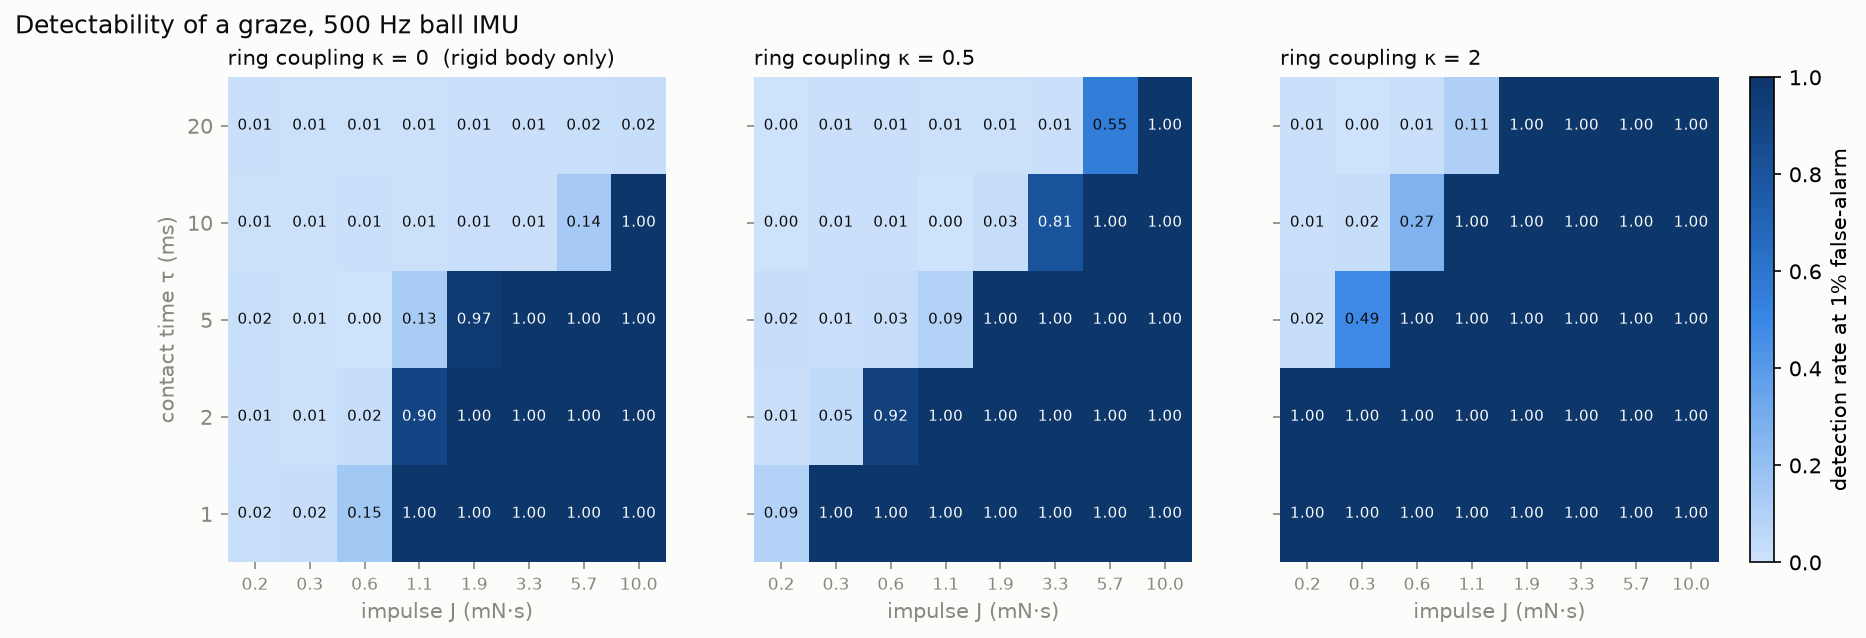
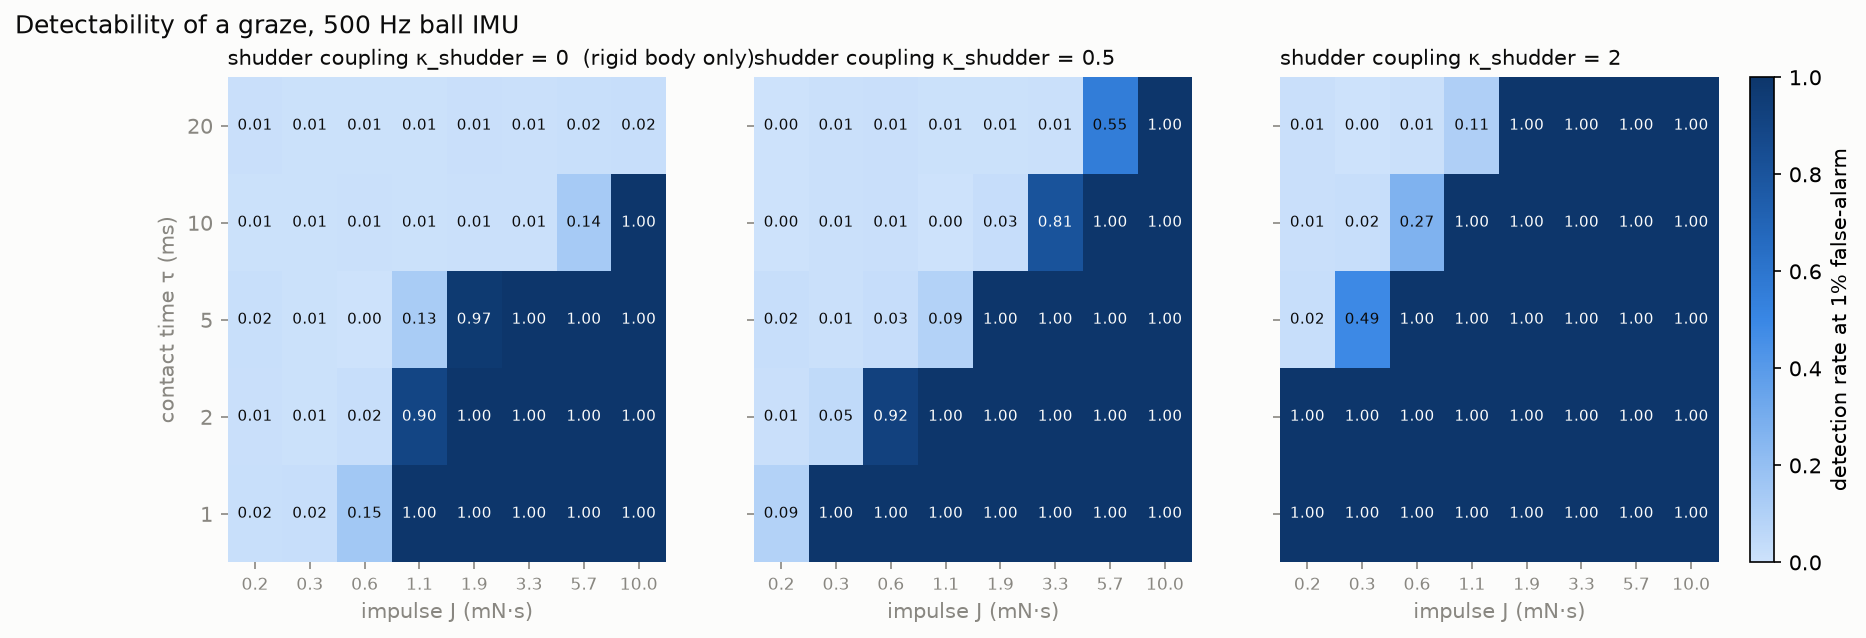
Rename couplings to kappa_shudder/kappa_twist; figures say shudder
Matches post 1's unified subscripted-kappa taxonomy. Terminology note
added to prediction log; figures regenerated.

Claude-Session: https://claude.ai/code/session_01JinYQagh942U1i2GTMJHNi

Changed region(s): [[0.1243, 0.0596, 0.5906, 0.1191], [0.6838, 0.0596, 0.8703, 0.1191]]

diff --git a/sim/touch_detection.py b/sim/touch_detection.py
@@ -6,8 +6,8 @@ Model: one accelerometer axis of a sensor suspended at the center of a ball in
 flight, sampled internally at 10 kHz, anti-alias filtered and decimated to the
 500 Hz the real KINEXON sensor reports. A touch adds (a) a rigid-body half-sine
 deceleration pulse with impulse J over contact time tau, and (b) a damped
-shell-vibration "ring" whose amplitude scales with peak contact force via an
-unknown coupling kappa — the honest big unknown, so we sweep it.
+shell-vibration "shudder" whose amplitude scales with peak contact force via an
+unknown coupling kappa_shudder — the honest big unknown, so we sweep it.
 
 Detector: high-pass at 100 Hz (above the aero-noise band), threshold on peak
 magnitude. Monte Carlo -> ROC and a detectability map over (J, tau).
@@ -40,7 +40,7 @@ A_SPIN = 0.7         # spin-wobble amplitude at f_spin
 F_SPIN = 8.0
 SIG_SENSOR = 0.02    # MEMS noise, ~125 ug/sqrt(Hz) over 250 Hz bandwidth
 
-# shell ring
+# shell shudder (the "ring" in early notes)
 F_RING = 180.0       # Hz, first shell mode reaching the sensor (below Nyquist)
 TAU_RING = 0.03      # s, decay time
 
@@ -74,7 +74,7 @@ def make_noise(n):
     return aero + spin + sensor
 
 
-def touch_pulse(J, tau, kappa):
+def touch_pulse(J, tau, kappa_shudder):
     """Touch signature at 10 kHz: half-sine rigid pulse + damped shell ring."""
     a = np.zeros(N_HI)
     t0 = T_WIN / 2
@@ -83,7 +83,7 @@ def touch_pulse(J, tau, kappa):
     a_peak = np.pi * J / (2 * M_BALL * tau)
     a[i0:i0 + n_c] += a_peak * np.sin(np.pi * np.arange(n_c) / n_c)
     t_rel = _t_hi[i0 + n_c:] - _t_hi[i0 + n_c]
-    a[i0 + n_c:] += kappa * a_peak * np.exp(-t_rel / TAU_RING) \
+    a[i0 + n_c:] += kappa_shudder * a_peak * np.exp(-t_rel / TAU_RING) \
         * np.sin(2 * np.pi * F_RING * t_rel)
     return a
 
@@ -108,10 +108,10 @@ def detect_stat(a_500):
     return np.abs(highpass(a_500)).max(axis=-1)
 
 
-def run_cell(J, tau, kappa, noise_stats):
-    """TPR at the FPR_TARGET threshold for one (J, tau, kappa)."""
+def run_cell(J, tau, kappa_shudder, noise_stats):
+    """TPR at the FPR_TARGET threshold for one (J, tau, kappa_shudder)."""
     thresh = np.quantile(noise_stats, 1 - FPR_TARGET)
-    sig = touch_pulse(J, tau, kappa)
+    sig = touch_pulse(J, tau, kappa_shudder)
     stats = detect_stat(to_sensor(make_noise(N_TRIALS) + sig))
     return (stats > thresh).mean()
 
@@ -129,15 +129,15 @@ def styled_axes(ax):
 
 def fig_traces(noise_stats, out):
     cases = [("no touch", 0.0, 0.5),
-             ("hair graze, J = 1 mN·s, ring κ = 0.5", 1e-3, 0.5),
-             ("same hair graze, loud ring κ = 2", 1e-3, 2.0),
-             ("firm graze, J = 5 mN·s, ring κ = 0.5", 5e-3, 0.5)]
+             ("hair graze, J = 1 mN·s, κ_shudder = 0.5", 1e-3, 0.5),
+             ("same hair graze, loud shudder κ_shudder = 2", 1e-3, 2.0),
+             ("firm graze, J = 5 mN·s, κ_shudder = 0.5", 5e-3, 0.5)]
     thresh = np.quantile(noise_stats, 1 - FPR_TARGET)
     fig, axes = plt.subplots(4, 1, figsize=(8, 7.6), sharex=True, sharey=True)
     fig.patch.set_facecolor(SURFACE)
     t = np.arange(N_HI // DECIM) / FS * 1000
-    for ax, (label, J, kappa) in zip(axes, cases):
-        sig = touch_pulse(J, 5e-3, kappa) if J else np.zeros(N_HI)
+    for ax, (label, J, kappa_shudder) in zip(axes, cases):
+        sig = touch_pulse(J, 5e-3, kappa_shudder) if J else np.zeros(N_HI)
         a = to_sensor(make_noise(1)[0] + sig)
         hp = highpass(a)
         styled_axes(ax)
@@ -166,16 +166,16 @@ def fig_traces(noise_stats, out):
 
 
 def fig_roc(noise_stats, out):
-    kappas = [(0.0, "κ = 0 (push only)"), (0.5, "κ = 0.5 (faint ring)"),
-              (2.0, "κ = 2 (loud ring)")]
+    kappas = [(0.0, "κ_shudder = 0 (push only)"), (0.5, "κ_shudder = 0.5 (faint shudder)"),
+              (2.0, "κ_shudder = 2 (loud shudder)")]
     fig, axes = plt.subplots(1, 3, figsize=(13, 4.8), sharey=True)
     fig.patch.set_facecolor(SURFACE)
     fpr = np.linspace(0, 1, 200)
     thr = np.quantile(noise_stats, 1 - fpr)
-    for ax, (kappa, title) in zip(axes, kappas):
+    for ax, (kappa_shudder, title) in zip(axes, kappas):
         styled_axes(ax)
         for J, color in zip([0.5e-3, 1e-3, 2e-3, 5e-3], CAT):
-            sig = touch_pulse(J, 5e-3, kappa)
+            sig = touch_pulse(J, 5e-3, kappa_shudder)
             stats = detect_stat(to_sensor(make_noise(N_TRIALS) + sig))
             tpr = (stats[:, None] > thr[None, :]).mean(axis=0)
             ax.plot(fpr, tpr, color=color, lw=2, label=f"J = {J*1e3:g} mN·s")
@@ -186,7 +186,7 @@ def fig_roc(noise_stats, out):
     leg = axes[0].legend(loc="lower right", fontsize=9, frameon=False)
     for txt in leg.get_texts():
         txt.set_color(INK)
-    fig.suptitle("ROC: graze detection, 5 ms contact — the ring makes the cliff",
+    fig.suptitle("ROC: graze detection, 5 ms contact — the shudder makes the cliff",
                  color=INK, fontsize=12, x=0.02, ha="left")
     fig.tight_layout()
     fig.savefig(out, dpi=150, facecolor=SURFACE)
@@ -199,8 +199,8 @@ def fig_detectability(noise_stats, out):
     cmap = LinearSegmentedColormap.from_list("seq", SEQ)
     fig, axes = plt.subplots(1, 3, figsize=(13.5, 4.2), sharey=True)
     fig.patch.set_facecolor(SURFACE)
-    for ax, kappa in zip(axes, [0.0, 0.5, 2.0]):
-        grid = np.array([[run_cell(J, tau, kappa, noise_stats)
+    for ax, kappa_shudder in zip(axes, [0.0, 0.5, 2.0]):
+        grid = np.array([[run_cell(J, tau, kappa_shudder, noise_stats)
                           for J in Js] for tau in taus])
         im = ax.imshow(grid, origin="lower", aspect="auto", cmap=cmap,
                        vmin=0, vmax=1)
@@ -210,8 +210,8 @@ def fig_detectability(noise_stats, out):
         for sp in ax.spines.values():
             sp.set_visible(False)
         ax.set_xlabel("impulse J (mN·s)", color=MUTED)
-        ax.set_title(f"ring coupling κ = {kappa:g}"
-                     + ("  (rigid body only)" if kappa == 0 else ""),
+        ax.set_title(f"shudder coupling κ_shudder = {kappa_shudder:g}"
+                     + ("  (rigid body only)" if kappa_shudder == 0 else ""),
                      color=INK, fontsize=10, loc="left")
         for (r, c), v in np.ndenumerate(grid):
             ax.text(c, r, f"{v:.2f}", ha="center", va="center", fontsize=7,
@@ -249,9 +249,9 @@ def main():
     fig_detectability(noise_stats, figs / "fig_detectability.png")
 
     for J in [0.5e-3, 1e-3, 2e-3, 5e-3]:
-        for kappa in [0.0, 0.5, 2.0]:
-            tpr = run_cell(J, 5e-3, kappa, noise_stats)
-            print(f"J={J*1e3:4.1f} mN·s  tau=5ms  kappa={kappa:3.1f}  "
+        for kappa_shudder in [0.0, 0.5, 2.0]:
+            tpr = run_cell(J, 5e-3, kappa_shudder, noise_stats)
+            print(f"J={J*1e3:4.1f} mN·s  tau=5ms  κ_shudder={kappa_shudder:3.1f}  "
                   f"TPR@1%FPR = {tpr:.2f}")
     print(f"figures -> {figs}")
 
@@ -278,13 +278,13 @@ WIN = int(0.1 * FS)             # 50 samples per side
 N_G = int(0.6 * FS)             # 0.6 s trace, graze at middle
 
 
-def gyro_trace(n_trials, J=0.0, f_split=1.0, rng=RNG):
+def gyro_trace(n_trials, J=0.0, kappa_twist=1.0, rng=RNG):
     t = np.arange(N_G) / FS
     base = SPIN0_DPS * (1 - AERO_DECAY * t)
     drift = np.cumsum(rng.standard_normal((n_trials, N_G)) * DRIFT_RW_DPS, axis=1)
     white = rng.standard_normal((n_trials, N_G)) * GYRO_JITTER_DPS
     step = np.zeros(N_G)
-    dw_dps = f_split * J * R_BALL / I_BALL * 57.2958
+    dw_dps = kappa_twist * J * R_BALL / I_BALL * 57.2958
     step[N_G // 2:] = dw_dps
     return base[None, :] + drift + white + step[None, :]
 
@@ -300,11 +300,11 @@ def gyro_sweep():
     noise = twist_stat(gyro_trace(3000))
     th = np.quantile(noise, 0.99)
     print(f"gyro two-window threshold @1% FPR: {th:.3f} deg/s")
-    print(f"{'J (mN.s)':>9} {'f=1.0':>7} {'f=0.3':>7}")
+    print(f"{'J (mN.s)':>9} {'κt=1.0':>7} {'κt=0.3':>7}")
     for J in [0.005, 0.01, 0.02, 0.035, 0.05, 0.07, 0.1, 0.2, 0.35, 1.0]:
         row = []
-        for f_split in (1.0, 0.3):
-            tpr = (twist_stat(gyro_trace(400, J * 1e-3, f_split)) > th).mean()
+        for kappa_twist in (1.0, 0.3):
+            tpr = (twist_stat(gyro_trace(400, J * 1e-3, kappa_twist)) > th).mean()
             row.append(tpr)
         print(f"{J:9.3f} {row[0]:7.2f} {row[1]:7.2f}")
 
@@ -332,11 +332,11 @@ def gyro_sweep_v2():
     noise = twist_stat_detrended(gyro_trace(3000))
     th = np.quantile(noise, 0.99)
     print(f"detrended threshold @1% FPR: {th:.3f} deg/s")
-    print(f"{'J (mN.s)':>9} {'f=1.0':>7} {'f=0.3':>7}")
+    print(f"{'J (mN.s)':>9} {'κt=1.0':>7} {'κt=0.3':>7}")
     for J in [0.01, 0.02, 0.035, 0.05, 0.07, 0.1, 0.15, 0.2, 0.35, 0.7, 1.0]:
         row = []
-        for f_split in (1.0, 0.3):
-            tpr = (twist_stat_detrended(gyro_trace(400, J * 1e-3, f_split)) > th).mean()
+        for kappa_twist in (1.0, 0.3):
+            tpr = (twist_stat_detrended(gyro_trace(400, J * 1e-3, kappa_twist)) > th).mean()
             row.append(tpr)
         print(f"{J:9.3f} {row[0]:7.2f} {row[1]:7.2f}")
 

diff --git a/sim/prediction-log.md b/sim/prediction-log.md
@@ -78,3 +78,12 @@ Key findings: (1) every channel carries one unmeasured coupling that decides its
 fate — shudder has κ, twist has f; (2) κ and f are independent → fusion hedges the
 geometry lottery; (3) the twist has engineering headroom (better gyro/drift model
 moves the cliff), the shudder doesn't.
+
+## Terminology note (2026-07-08)
+
+Post 1 unified the per-channel couplings under subscripted kappas: κ_push
+(perpendicular force share), κ_shudder (shell-transmission gain; called plain
+"κ" in rounds 1-2 above), κ_twist (tangential/grip share; called "f" or
+"f_split" in round 3 above). Code renamed to match (kappa_shudder,
+kappa_twist). The three are independent draws — the basis of the fusion
+argument for post 2.
